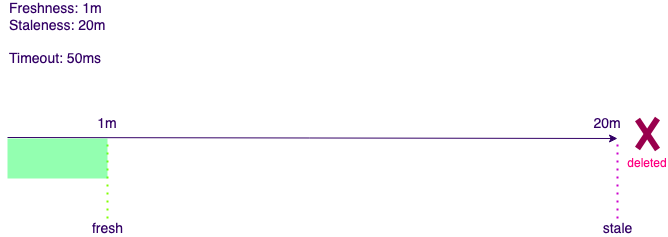
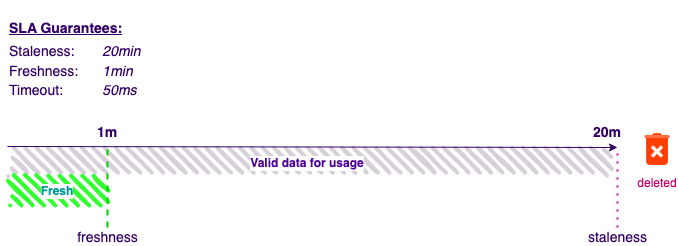
docs: update SLA illustration and explanations

diff --git a/docs/reference/how-does-raptor-work/features/feature-sla.md b/docs/reference/how-does-raptor-work/features/feature-sla.md
@@ -10,9 +10,9 @@ the world.
 
 ## SLA Types
 
-When creating the Feature Definition, you specify three important values: **Freshness, Staleness, and Deadline.**
+When creating the Feature Definition, you specify three important values: **Freshness, Staleness, and Timeout.**
 
-![](../../../assets/feature-sla.png)
+![Feature's SLA illustration](../../../assets/feature-sla.png)
 
 - **Staleness** - Is the maximum age of the data lifespan. Beyond this age, the data is considered stale, and is not
   valid to be used.
@@ -20,7 +20,7 @@ When creating the Feature Definition, you specify three important values: **Fres
   again.
 - **Valid data** - Is a data that it's not considered fresh anymore, but is not stale yet. In this case, we need to
   compute the data again, but it would be okay to use it.
-- **Deadline** - Is the maximum time that we can wait for the data to be computed. If the deadline is exceeded, we
+- **Timeout** - Is the maximum time that we can wait for the data to be computed. If the timeout is exceeded, we
   will either return a valid data(if we have it), or through an error.
 
 
@@ -32,7 +32,7 @@ features meet the SLA.
 When a feature value is requested, Raptor:
 1. Check if we have a **fresh** value for the feature. If we do, return it.
 2. If the data we have is not *fresh*, but it's not *stale* yet, we will compute the data again, and return it.
-   1. If the data is computed **before the deadline**, return it.
-   2. If the data is computed **after the deadline**, return the valid data, and compute the data in the background for future usage.
-3. If we don't have a valid data, and the deadline is exceeded, return an error.
+   1. If the data is computed **before the timeout**, return it.
+   2. If the data is computed **after the timeout**, return the valid data, and compute the data in the background for future usage.
+3. If we don't have a valid data, and the timeout is exceeded, return an error.
 4. Stale data is never returned. Instead, the Historian is recording it for future usage, and we delete it from the State.
